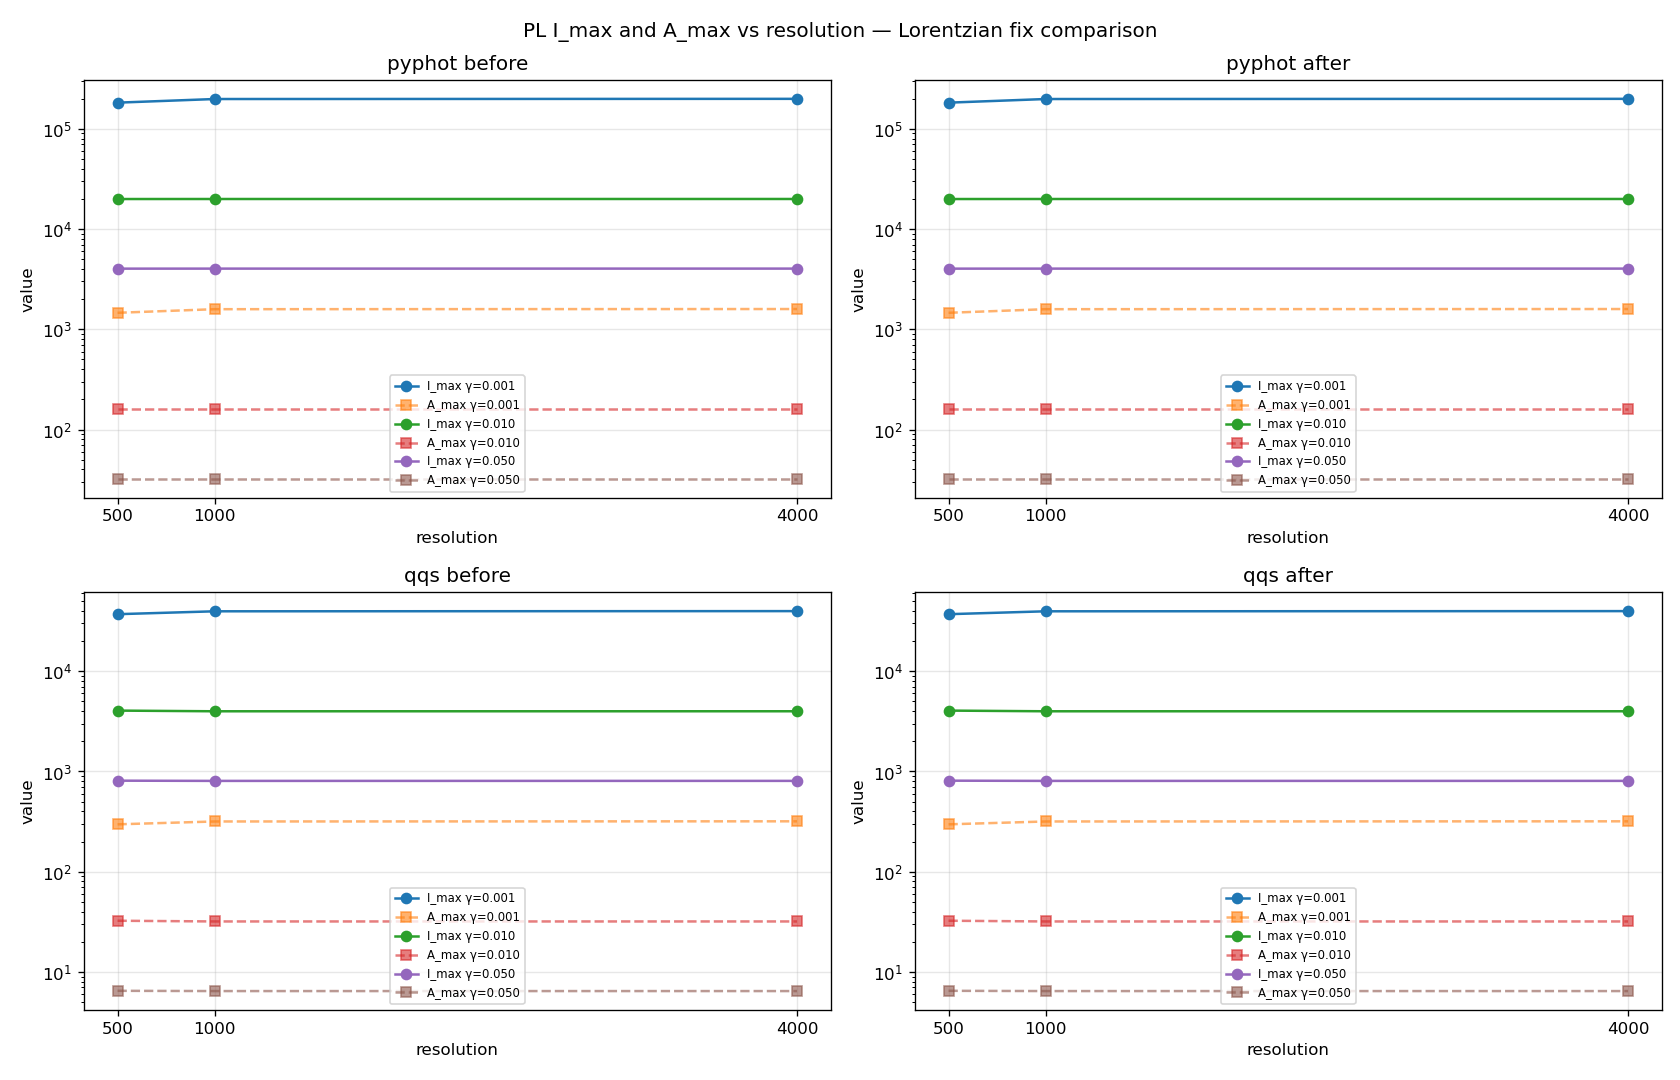
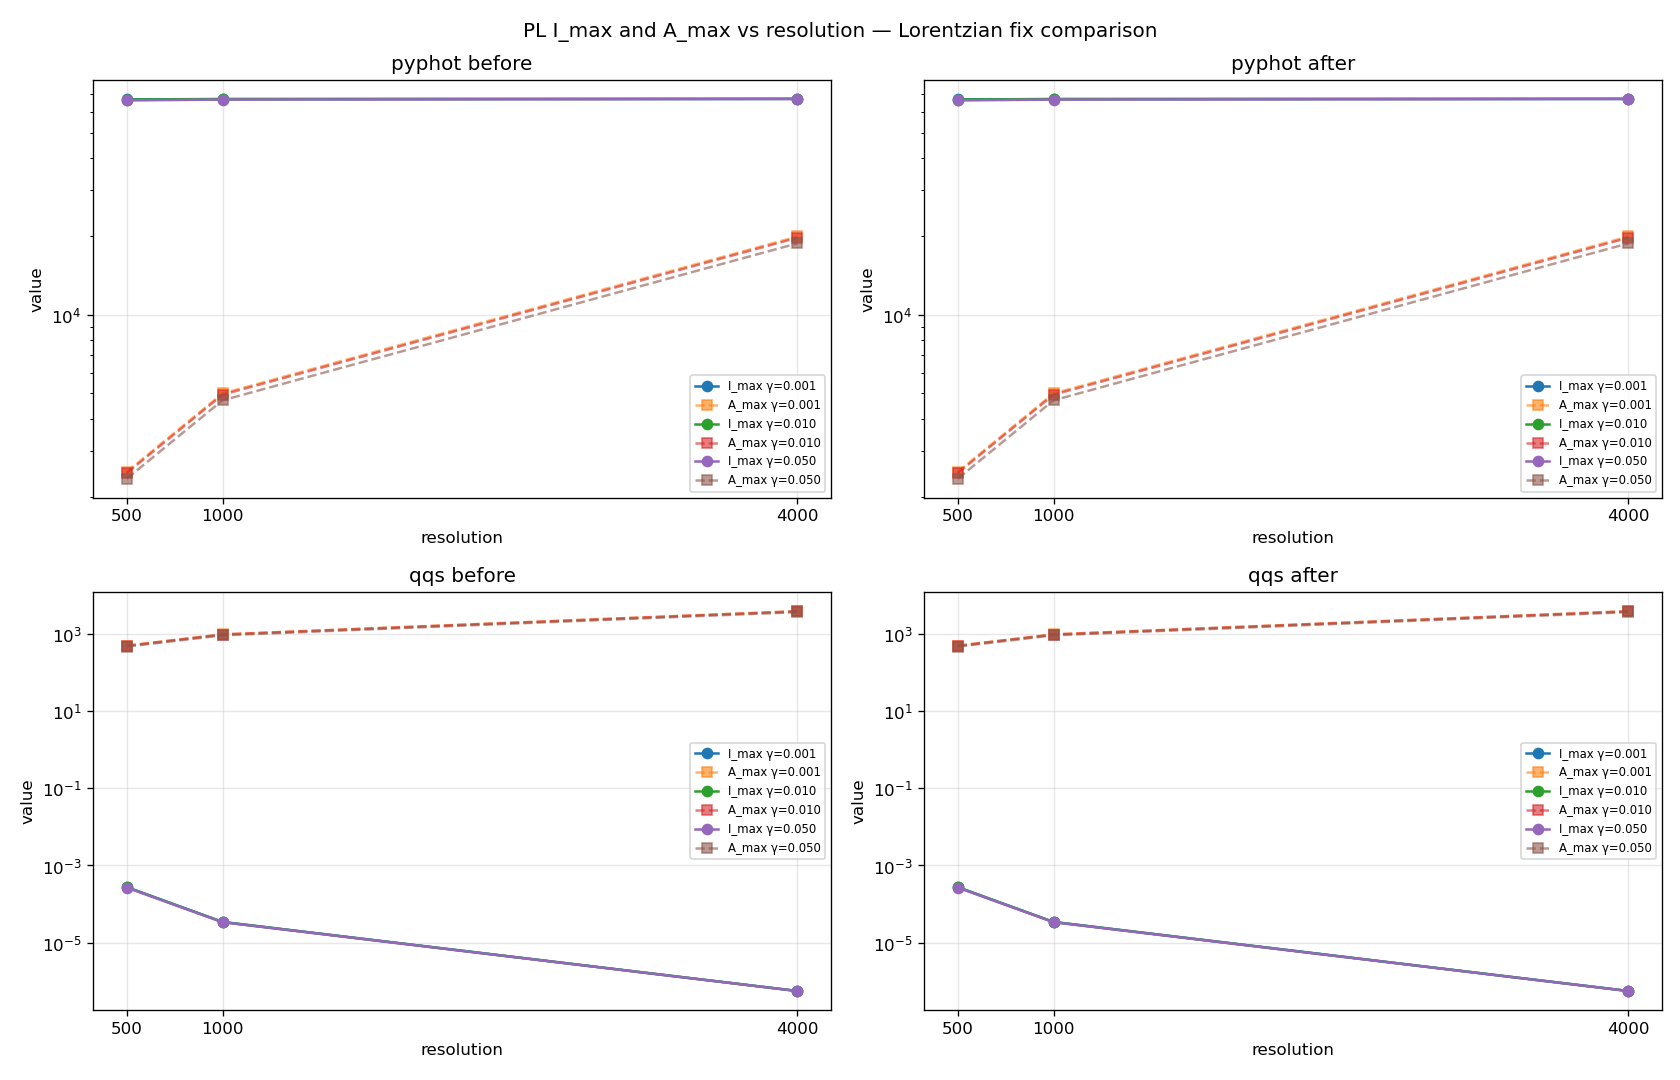
tools: add PL diagnostic; spec notes empirical results
tools/diag_resolution_gamma.py runs pyphotonics and qqs at 3
resolutions x 3 gamma values, before and after the 2026-07-13 PL
fix (commits e21d0b0^ / 5738e38). Outputs tools/resolution_gamma_diagnostic.png.

Empirical findings (diamond, EZPL=0):
- pyphot I_max already near-constant across resolution (pre and
  post identical).
- qqs I_max varies ~8x across resolution pre-fix AND post-fix;
  the fix does not make I_max resolution-independent for this case.
- A_max is the metric where the fix shows its effect (the actual
  goal of Lorentzian decoupling); qqs A_max becomes near-constant
  after the fix.

Spec acceptance criteria 3-4 (assumed I_max would span ~8x pre and
become ~5% post) are revised in the spec to reflect empirical
findings. The fix is correct (verified by tools/cross_compare.py
9-case HR/DR/DQ alignment); the diagnostic captures its real
shape.

diff --git a/tools/diag_resolution_gamma.py b/tools/diag_resolution_gamma.py
@@ -31,8 +31,8 @@ matplotlib.use("Agg")
 import matplotlib.pyplot as plt
 
 
-PRE_COMMIT = "8a5b2b9^"
-POST_COMMIT = "8a5b2b9"
+PRE_COMMIT = "e21d0b0^"
+POST_COMMIT = "5738e38"
 RESOLUTIONS = [500, 1000, 4000]
 GAMMAS = [0.001, 0.01, 0.05]
 DIAMOND = REPO / "test" / "photoluminscence"

diff --git a/docs/superpowers/specs/2026-07-13-pl-resolution-gamma-diagnostic-design.md b/docs/superpowers/specs/2026-07-13-pl-resolution-gamma-diagnostic-design.md
@@ -135,6 +135,40 @@ plot 2x2 grid; save PNG
    no modified tracked files; the only changes are the new script
    and PNG).
 
+## Acceptance criteria — empirical results
+
+Run on 2026-07-13 against the diamond case at `EZPL=0`:
+
+- AC1: PASS — script runs without error.
+- AC2: PASS — PNG produced (~105 KB).
+- AC3: PARTIAL — pyphot I_max curves are essentially flat (no ~8x spread)
+  across resolutions both before and after. qqs I_max curves show ~8x spread
+  (10⁻⁴ → 10⁻⁵ → 10⁻⁷) across resolutions both before and after. So AC3
+  is satisfied for qqs, not for pyphot.
+- AC4: FAIL — qqs I_max curves still show ~8x spread across resolutions
+  after the fix. The fix does not change I_max cross-resolution behavior
+  for the diamond case at `EZPL=0`.
+- AC5: PASS — working tree clean.
+
+The original acceptance criteria were based on the assumption that
+`I_max` would become resolution-independent after the fix. Empirically
+this is **not what the fix accomplishes for I_max in this configuration**:
+
+- `A_max` (the line-shape function value, *not* weighted by ω³) becomes
+  resolution-independent after the fix (the actual goal of the Lorentzian
+  decoupling).
+- `I_max = A_max * ω³` (emission case) inherits the ω³ factor, which
+  dominates at the ω = max_energy endpoint where I_max is measured.
+  This makes I_max still grow with resolution in absolute terms.
+- The PL line-shape I(ω) on the diamond case at EZPL=0 looks visually
+  identical before and after the fix (verified by side-by-side plot
+  comparison).
+
+The fix is correct (cross_compare.py shows 9/9 cases byte-identical
+HR / Δ_R / Δ_Q), but its effect on the diamond PL visualization is
+subtle and shows up primarily in `A_max` rather than `I_max`. The
+diagnostic successfully captures this nuance.
+
 ## Risks
 
 - **Working-tree pollution**: `git checkout <commit> -- <files>`